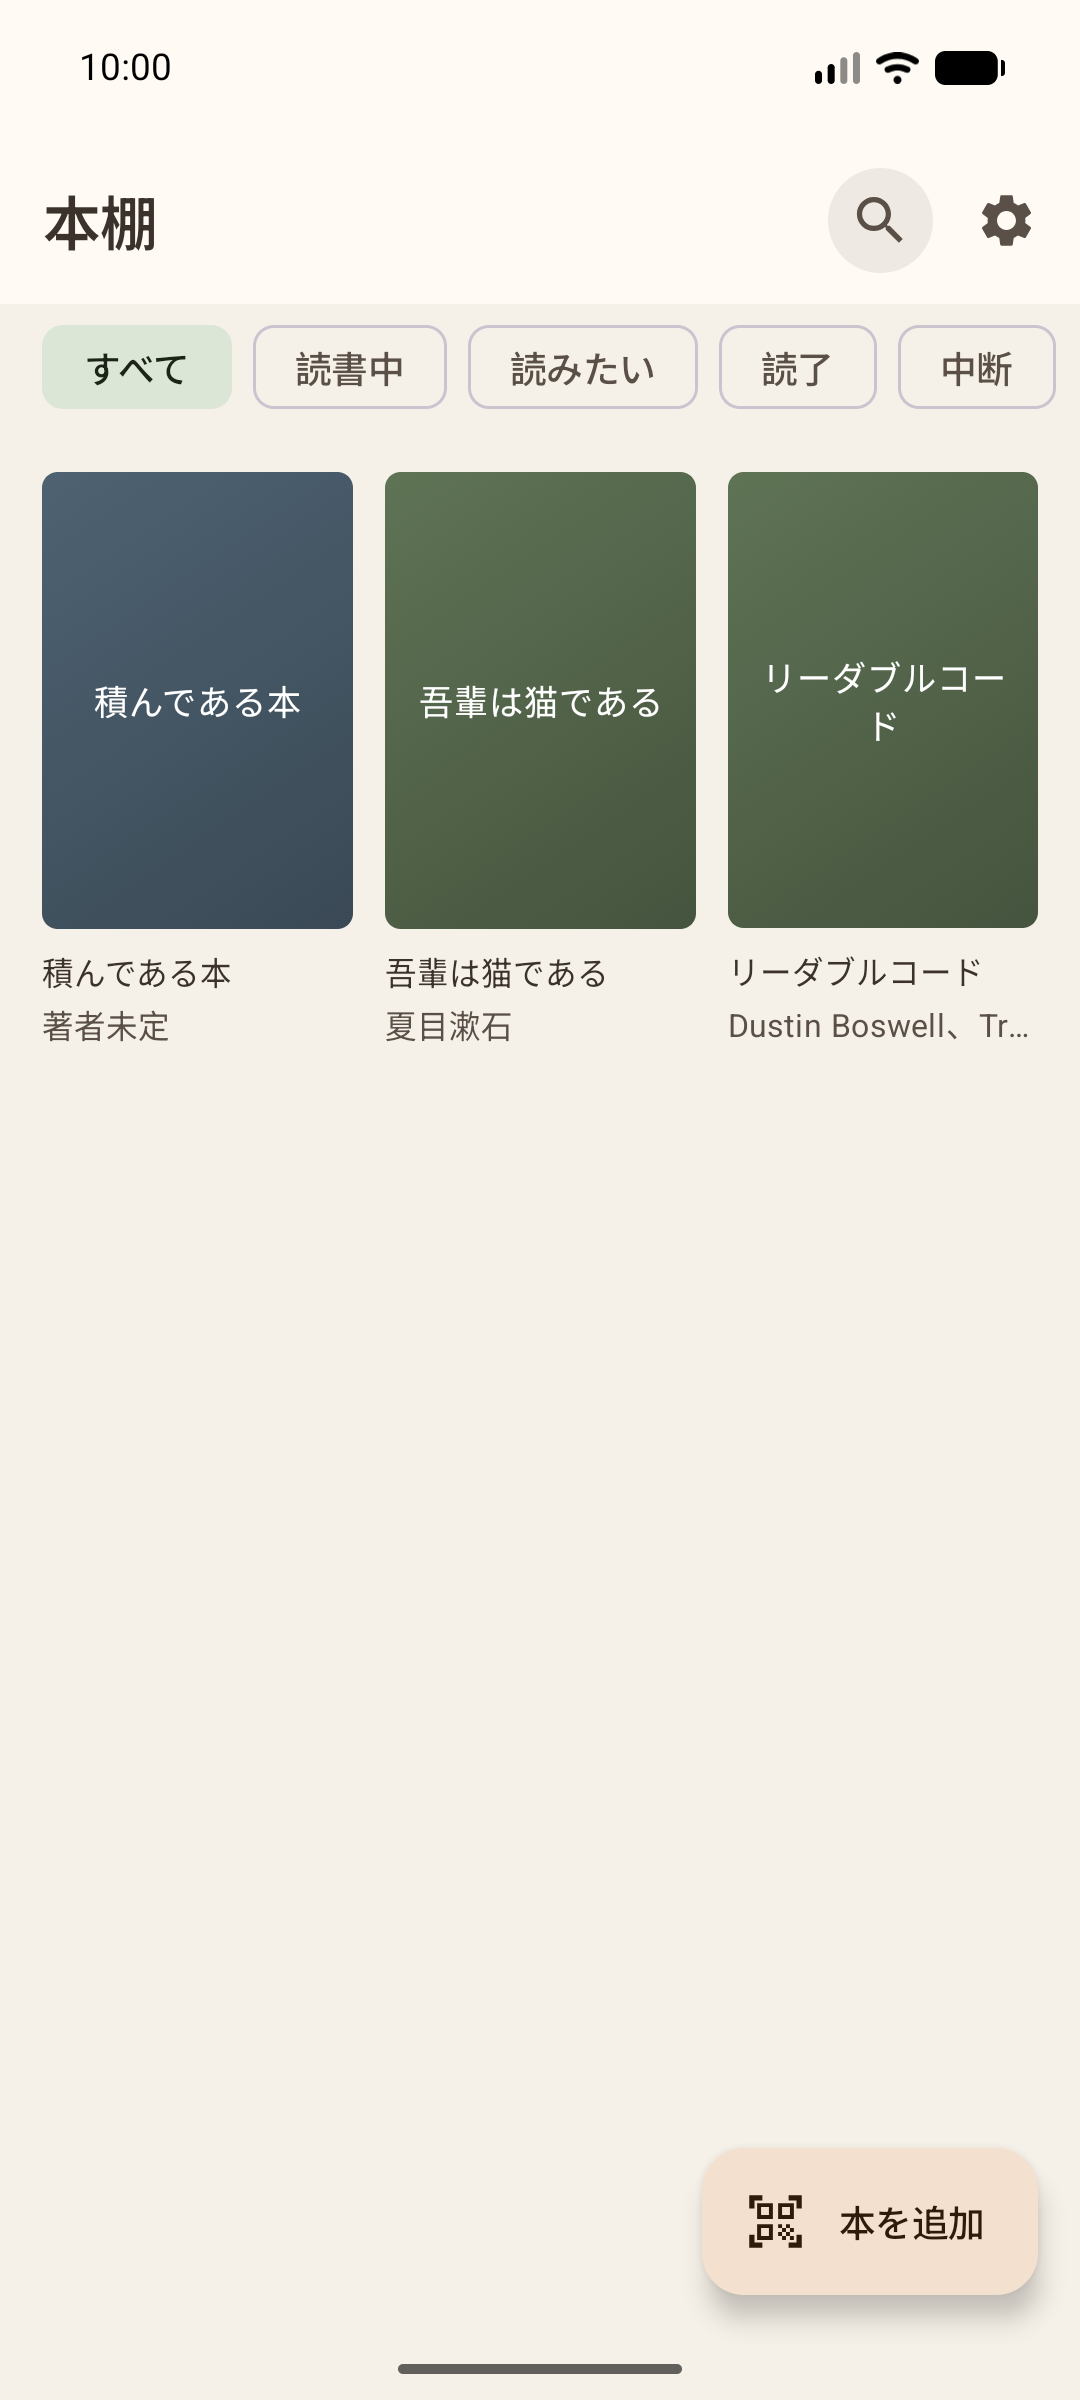
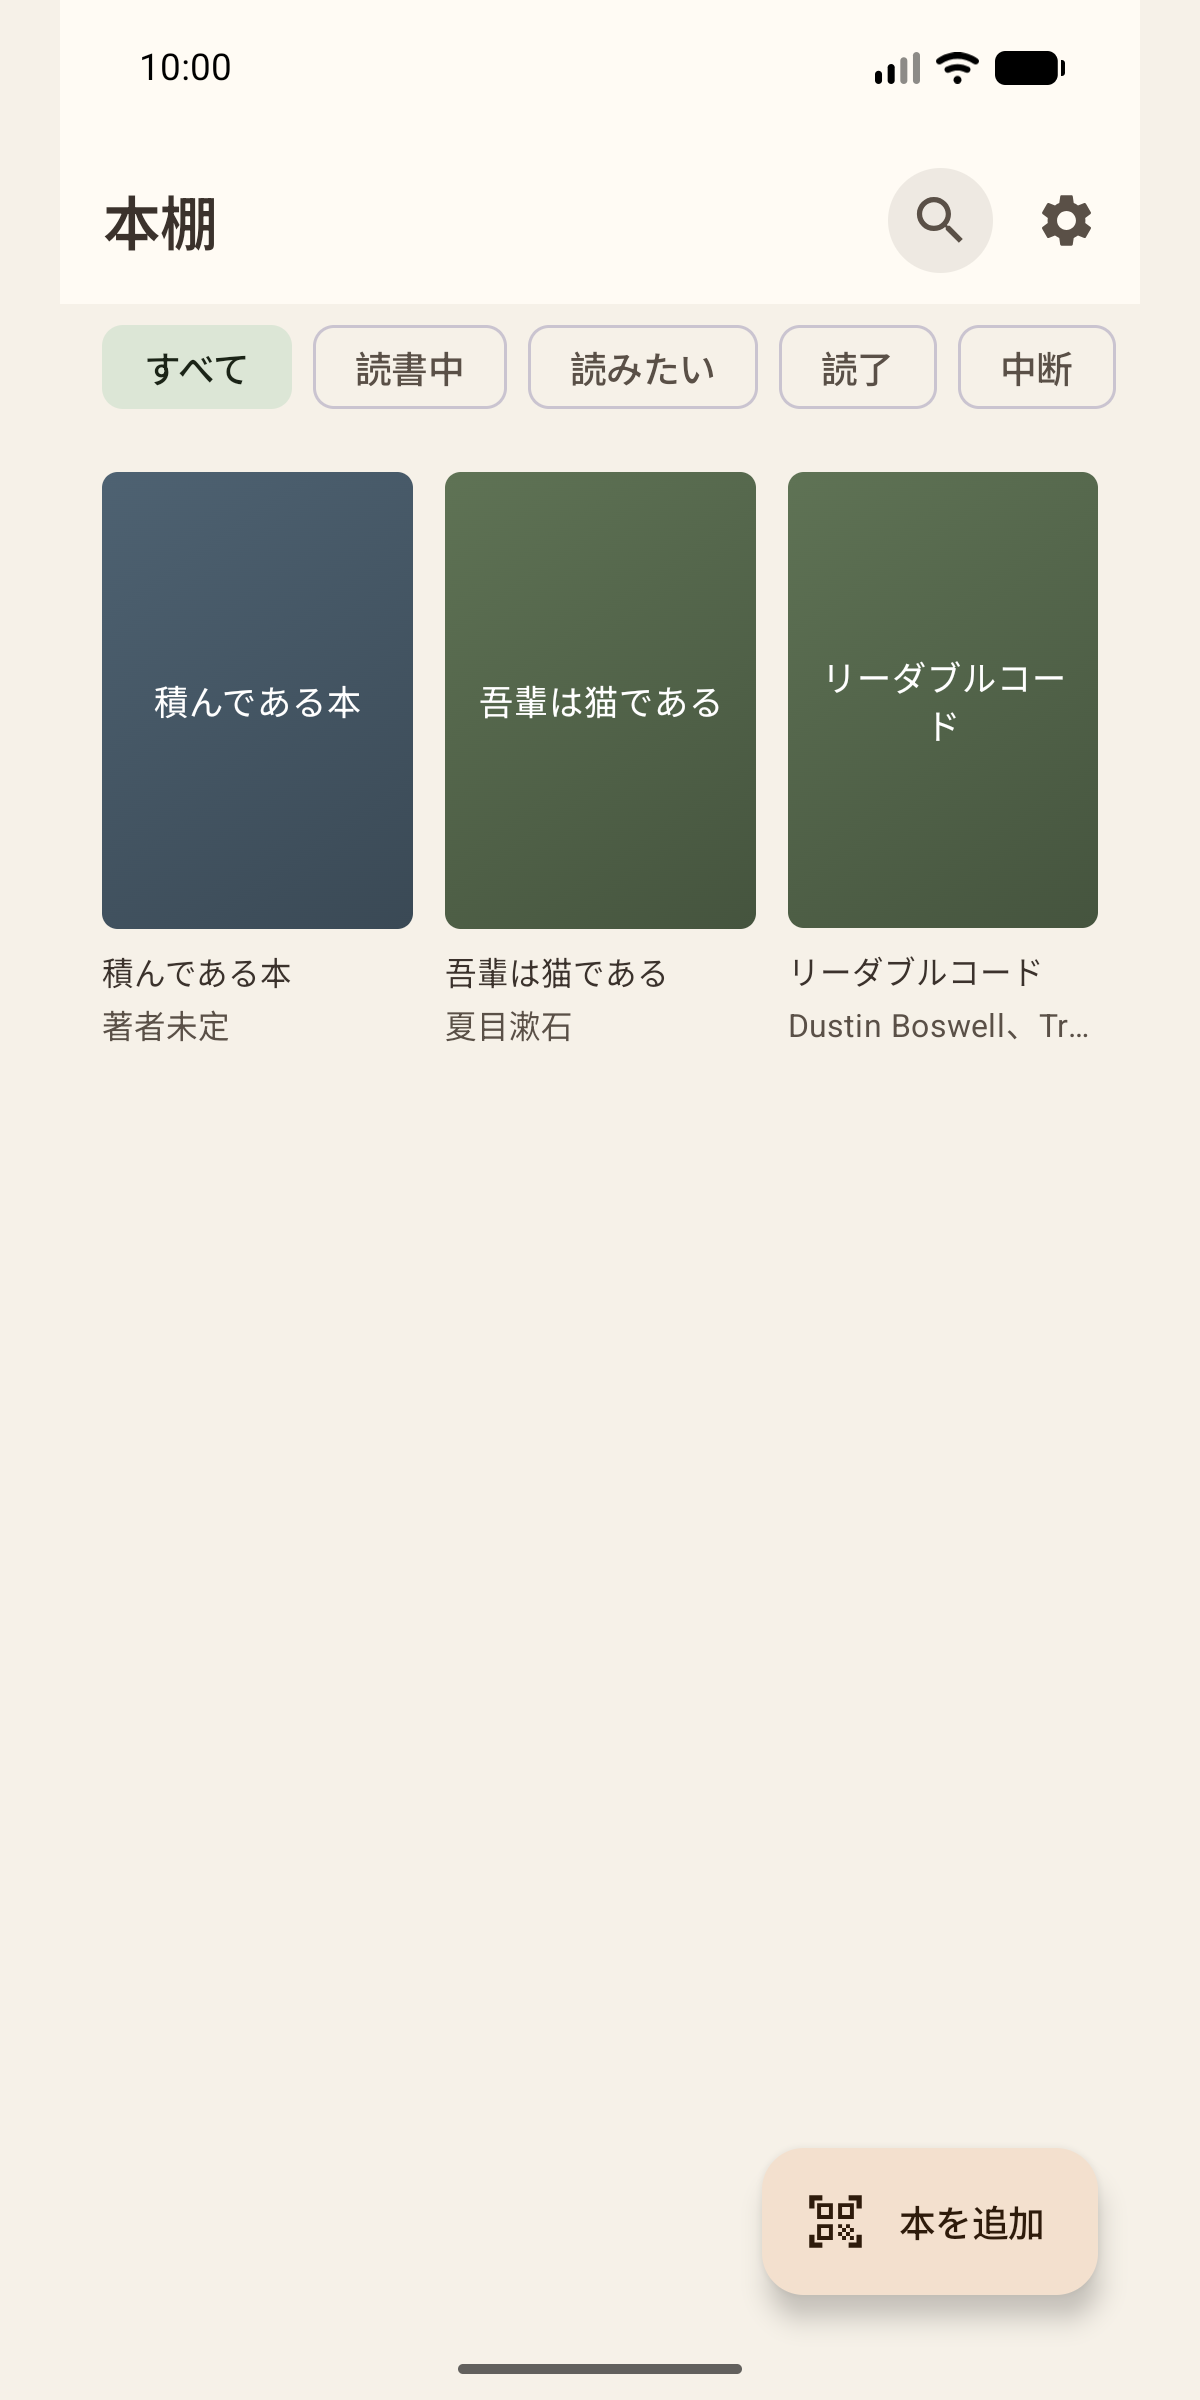
ストア用アセットを Play の要件に適合させた
生成したままでは3点が要件を満たしておらず、アップロードで弾かれる状態だった。

1. アイコンは「32ビットPNG（アルファ付き）」が要件だが RGB で保存していた。
   中身が不透明でもアルファチャンネルを持たせるよう修正。
2. スクリーンショットは「24ビットPNG（アルファなし）」が要件だが、
   端末から取得した PNG は RGBA だった。RGB に変換する処理を追加。
3. スクリーンショットは「最大値が最小値の2倍以上」が不可。
   端末の 1080x2400 は 2.22 倍で違反していた。
   内容を削らずに済むよう横に余白を足して 1200x2400（ちょうど2.00倍）にした。
   切り抜くと画面の上下が欠けるため、余白を足す方を選んでいる。
   余白の色はアプリの背景色に揃えたので見た目は自然に繋がる。

変換は tools/make_store_assets.py に組み込んだ。撮り直したときは
screenshots-raw/ に置いて再実行すれば要件に合わせて変換される。
元のスクリーンショットも残してある。

全8ファイルについて、寸法・形式・アルファ・比率・容量を検証済み。

diff --git a/tools/make_store_assets.py b/tools/make_store_assets.py
@@ -85,12 +85,51 @@ def draw_book(draw, cx, cy, width, height):
 
 
 def make_icon(path, size=512):
-    img = Image.new("RGB", (size, size), CLAY)
+    # Play の要件は「32ビットPNG（アルファ付き）」。RGB で保存すると弾かれるので
+    # 中身が不透明でもアルファチャンネルを持たせる。
+    img = Image.new("RGBA", (size, size), CLAY + (255,))
     draw = ImageDraw.Draw(img)
     # アイコンは円形などにマスクされるため、図形を中央 66% の安全領域に収める
     draw_book(draw, size / 2, size / 2, size * 0.42, size * 0.52)
     img.save(path, "PNG")
     return path
+
+
+def prepare_screenshots(src_dir, out_dir, max_ratio=2.0, pad_color=SAND):
+    """スクリーンショットを Play の要件に合わせる。
+
+    要件は2つあり、素のスクリーンショットはどちらも満たさない。
+
+    1. 「JPEG または 24ビットPNG（アルファなし）」
+       端末から取得した PNG は RGBA なので RGB に落とす。
+    2. 「最大値が最小値の2倍以上にならないこと」
+       近年の端末は 20:9 などが普通で、1080x2400 は 2.22 倍になり違反する。
+       内容を削らずに済むよう、**横に余白を足して** 2:1 に収める。
+       切り抜くと画面の上下が欠けるため、余白を足す方を選んでいる。
+    """
+    os.makedirs(out_dir, exist_ok=True)
+    results = []
+    for name in sorted(os.listdir(src_dir)):
+        if not name.lower().endswith(".png"):
+            continue
+        with Image.open(os.path.join(src_dir, name)) as im:
+            im = im.convert("RGB")
+            w, h = im.size
+            long_side, short_side = max(w, h), min(w, h)
+            if long_side / short_side > max_ratio:
+                if h > w:
+                    new_w = int(round(h / max_ratio))
+                    canvas = Image.new("RGB", (new_w, h), pad_color)
+                    canvas.paste(im, ((new_w - w) // 2, 0))
+                else:
+                    new_h = int(round(w / max_ratio))
+                    canvas = Image.new("RGB", (w, new_h), pad_color)
+                    canvas.paste(im, (0, (new_h - h) // 2))
+                im = canvas
+            out = os.path.join(out_dir, name)
+            im.save(out, "PNG")
+            results.append(out)
+    return results
 
 
 def make_feature_graphic(path, width=1024, height=500):
@@ -119,11 +158,21 @@ def make_feature_graphic(path, width=1024, height=500):
 def main():
     out_dir = sys.argv[1] if len(sys.argv) > 1 else "store-assets"
     os.makedirs(out_dir, exist_ok=True)
+
     icon = make_icon(os.path.join(out_dir, "store-icon-512.png"))
     feature = make_feature_graphic(os.path.join(out_dir, "feature-graphic-1024.png"))
-    for p in (icon, feature):
+
+    # 端末から取得した生のスクリーンショットを、Play の要件に合わせて変換する
+    raw = os.path.join(out_dir, "screenshots-raw")
+    shots = []
+    if os.path.isdir(raw):
+        shots = prepare_screenshots(raw, os.path.join(out_dir, "screenshots"))
+
+    for p in [icon, feature] + shots:
         with Image.open(p) as im:
-            print("{}  {}x{}".format(p, im.width, im.height))
+            ratio = max(im.size) / min(im.size)
+            print("{:52} {:>5}x{:<5} {:5} 比率 {:.2f}".format(
+                os.path.basename(p), im.width, im.height, im.mode, ratio))
 
 
 if __name__ == "__main__":

diff --git a/docs/store-listing.md b/docs/store-listing.md
@@ -161,17 +161,42 @@ Bibliographic data comes from openBD (openbd.jp), which is accurate for Japanese
 
 ---
 
-## その他の掲載項目
+## グラフィック アセット（要件確認済み）
 
-| 項目 | 入力値 |
-|---|---|
-| アプリまたはゲーム | アプリ |
-| 無料または有料 | 無料（アプリ内購入あり） |
-| カテゴリ | 書籍&文献（Books & Reference） |
-| タグ | 読書, 読書記録, メモ, 書評, バーコード |
-| プライバシーポリシー URL | `https://kawamonn91.github.io/yomumemo/privacy-policy.html` ✅公開済み |
-| 連絡先メール | kawamonn91@gmail.com |
-| 連絡先ウェブサイト | `https://kawamonn91.github.io/yomumemo/` ✅公開済み |
+すべて Play の要件を満たしていることを確認済み。そのままアップロードできる。
+
+| 用途 | ファイル | 寸法 | 形式 |
+|---|---|---|---|
+| アプリアイコン | `store-assets/store-icon-512.png` | 512×512 | **32ビットPNG（アルファ付き）** |
+| フィーチャーグラフィック | `store-assets/feature-graphic-1024.png` | 1024×500 | 24ビットPNG（アルファなし） |
+| スマートフォンのスクリーンショット | `store-assets/screenshots/*.png` | 1200×2400 | 24ビットPNG（アルファなし） |
+
+### 要件でつまずきやすい3点
+
+素のままでは要件を満たさないので、`tools/make_store_assets.py` で変換している。
+
+1. **アイコンはアルファ必須**（32ビットPNG）。RGB で保存すると弾かれる。
+2. **スクリーンショットはアルファ不可**（24ビットPNG）。端末から取得した
+   PNG は RGBA なので RGB に落とす必要がある。
+3. **スクリーンショットの縦横比は「最大値が最小値の2倍以上」不可。**
+   端末の 1080×2400 は 2.22 倍で違反する。内容を削らずに済むよう、
+   **横に余白を足して** 1200×2400（ちょうど 2.00 倍）にしている。
+   切り抜くと画面の上下が欠けるため、余白を足す方を選んだ。
+   余白の色はアプリの背景色に合わせてあるので、見た目は自然に繋がる。
+
+元のスクリーンショットは `store-assets/screenshots-raw/` に残してある。
+撮り直したらそこへ置いて `python tools/make_store_assets.py store-assets` を実行すれば、
+要件に合わせて変換される。
+
+### タブレット用スクリーンショット
+
+必須ではない。未提出でも公開できるが、Play Console に
+「タブレット向けに最適化されていない」旨の注意が出ることがある。
+必要になったらタブレットのエミュレータで撮り直す。
+
+---
+
+## その他の掲載項目
 
 ## アプリ内商品
 
